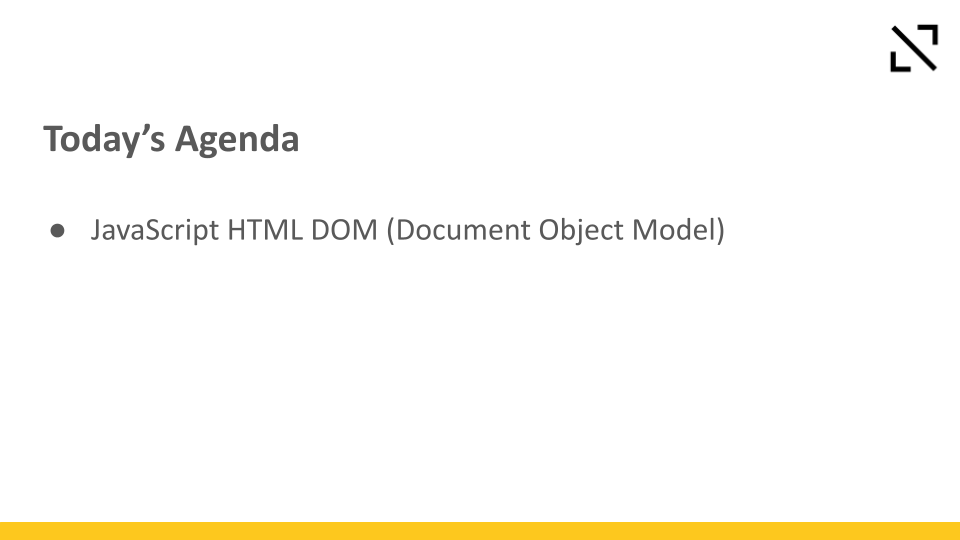
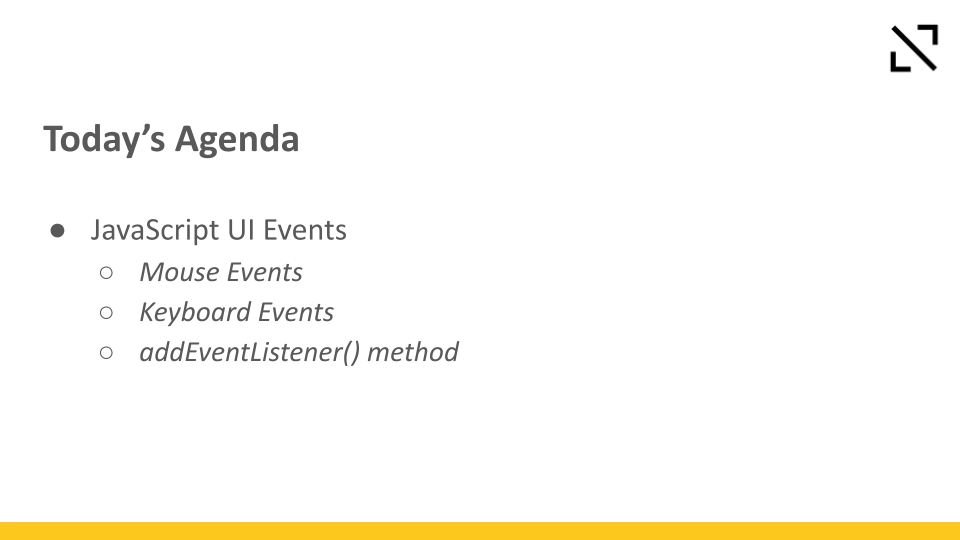
slides

diff --git a/index.html b/index.html
@@ -5,7 +5,7 @@
   <meta http-equiv="X-UA-Compatible" content="IE=edge">
   <meta name="viewport" content="width=device-width, initial-scale=1.0">
   <link rel="stylesheet" href="styles.css"/>
-  <title>Javascript tutorials.</title>
+  <title>UI Events | Javascript tutorials.</title>
 </head>
 <body>
   <main id="main"></main>  

diff --git a/README.md b/README.md
@@ -1,6 +1,6 @@
 <div align="center">
 <h2> 𝐇𝐞𝐥𝐥𝐨 𝐭𝐡𝐞𝐫𝐞!, <img src="https://github.com/ABSphreak/ABSphreak/blob/master/gifs/Hi.gif" width="30px"></h2>
-<h4>Here you can find the 10<sup>th</sup> lesson materials."JavaScript HTML DOM"</h4>
+<h4>Here you can find the 11<sup>th</sup> lesson materials."JavaScript UI Events"</h4>
 </div>
 
 ![slide1](img/0001.png)
@@ -10,13 +10,5 @@
 ![slide5](img/0005.png)
 ![slide6](img/0006.png)
 ![slide7](img/0007.png)
-![slide8](img/0008.png)
-![slide9](img/0009.png)
-![slide10](img/0010.png)
-![slide11](img/0011.png)
-![slide12](img/0012.png)
-![slide13](img/0013.png)
-![slide14](img/0014.png)
-![challenge-slide](img/challenge.png)
 ![slide15](img/0015.png)
 ![slide16](img/0016.png)
